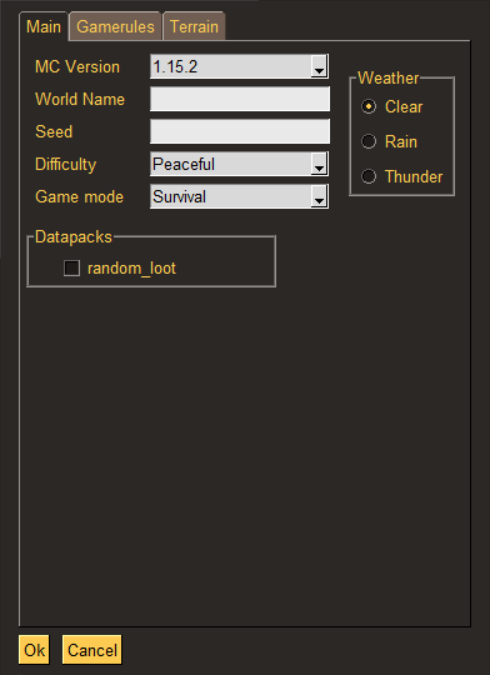
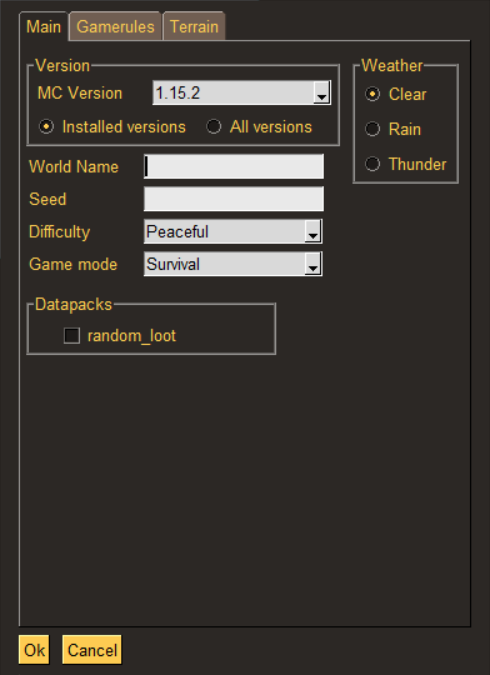
Version selection improved and made utils classes nicer

Changed region(s): [[0.0306, 0.0622, 0.949, 0.5289]]

diff --git a/FastWorldCreator.py b/FastWorldCreator.py
@@ -25,7 +25,9 @@ def enum_to_cb_contents(cls: Type[Enum]) -> List[str]:
     return [e.name.title() for e in cls]
 
 
-mc_versions = [str(k) for k in list(mu.get_version_map().keys())]
+supported_mc_versions = [k for k in mu.version_map]
+installed_mc_versions = [k for k in cu.find_installed_minecraft_versions()]
+installed_mc_versions.sort(reverse=True)
 available_datapacks = du.get_available_datapacks()
 available_datapacks.sort(key=lambda x: x.name)
 difficulties = enum_to_cb_contents(mu.Difficulties)
@@ -56,9 +58,19 @@ def create_layouts():
         main tab, and populated from the assets/imported_datapacks folder.
         """
         c1_layout = [[
-            sg.T('MC Version', size=(10, 1)),
-            sg.Combo(mc_versions, mc_versions[0], (18, 1), readonly=True,
-                     key="release")
+            sg.Frame("Version", [[
+                sg.T('MC Version', size=(10, 1)),
+                sg.Combo(installed_mc_versions, installed_mc_versions[0],
+                         (18, 1), readonly=True, key="release")
+                ],
+                [
+                    sg.Radio("Installed versions", "radio_versions", True,
+                             enable_events=True,
+                             key="radio_installed_versions"),
+                    sg.Radio("All versions", "radio_versions",
+                             enable_events=True, key="radio_all_versions")
+                ]
+            ])
         ]]
         c1_layout += [[
             sg.T('World Name', size=(10, 1)),
@@ -81,7 +93,7 @@ def create_layouts():
         ]]
         c2_layout = [[sg.Frame('Weather', create_weather_layout())]]
         layout = [[
-            sg.Col(c1_layout, pad=(5, 7)), sg.Col(c2_layout, pad=(0, 17))
+            sg.Col(c1_layout, pad=(0, 7)), sg.Col(c2_layout, pad=(0, 7))
         ]]
         layout += [[
             sg.Frame('Datapacks', create_datapack_layout(), size=(50, 1))
@@ -305,6 +317,10 @@ while True:
     event, val_dict = window.read()
     if event in (None, 'Cancel'):  # if user closes window or clicks cancel
         break
+    if event == "radio_installed_versions":
+        window["release"].update(values=installed_mc_versions)
+    elif event == "radio_all_versions":
+        window["release"].update(values=supported_mc_versions)
     if event == "generator":
         if val_dict[event] == mu.GeneratorNames.BUFFET.name.title():
             window["buffet_option_frame"].unhide_row()

diff --git a/fast_world_creator/utils/common_utils.py b/fast_world_creator/utils/common_utils.py
@@ -1,7 +1,11 @@
 import os
+from functools import lru_cache
 from typing import Dict
 
 from fast_world_creator.utils import minecraft_utils as mu
+
+
+MC_FOLDER = f"{os.getenv('APPDATA')}/.minecraft"
 
 
 def log(msg: str, sym: str = "#") -> None:
@@ -13,6 +17,7 @@ def log(msg: str, sym: str = "#") -> None:
     print(f"{sym * 3} {msg:^40} {sym * 3}")
 
 
+@lru_cache(maxsize=4)
 def find_installed_minecraft_versions(mc_dir: str = None) -> Dict:
     """ Finds the available jars of vanilla Minecraft in the system.
 
@@ -21,18 +26,21 @@ def find_installed_minecraft_versions(mc_dir: str = None) -> Dict:
     versions are obtained from the data version map, so not every Jar file in
     the path will be added to the dictionary.
 
+    The method caches the result to prevent system lookups every time it is
+    called.
+
     :param mc_dir: The Minecraft installation directory (.minecraft)
     :return: A dictionary containing the installed (and supported) minecraft
         versions and the path to the Jar files."""
     log("Looking for installed minecraft versions")
     if not mc_dir:
-        mc_dir = get_mc_folder()
+        mc_dir = MC_FOLDER
     installations_folder = f"{mc_dir}/versions"
     installations = os.listdir(installations_folder)
 
     installed_versions = dict()
     for i in installations:
-        if i in mu.get_version_map().keys():
+        if i in mu.version_map.keys():
             version_folder = f"{installations_folder}/{i}"
             if os.path.isdir(version_folder):
                 version_jar = f"{version_folder}/{i}.jar"
@@ -43,22 +51,6 @@ def find_installed_minecraft_versions(mc_dir: str = None) -> Dict:
         log("Aborting...")
         exit(0)
     return installed_versions
-
-
-def get_mc_folder() -> str:
-    """ Get the default Minecraft installation folder
-
-    The method caches the result to prevent system lookups every time it is
-    called.
-    :return: The path to the folder.
-    """
-    if not get_mc_folder.loaded_version:
-        get_mc_folder.loaded_version = f"{os.getenv('APPDATA')}/.minecraft"
-    return get_mc_folder.loaded_version
-
-
-# Manual cache for the get_mc_folder method
-get_mc_folder.loaded_version = False
 
 
 def change_directory(to_dir: str) -> str:

diff --git a/fast_world_creator/utils/minecraft_utils.py b/fast_world_creator/utils/minecraft_utils.py
@@ -1,5 +1,5 @@
 import enum
-from typing import List
+from typing import List, Dict
 
 
 class Difficulties(enum.IntEnum):
@@ -67,23 +67,18 @@ def get_mc_definitions(resource: str) -> List[str]:
         return [line.rstrip("\n") for line in f.readlines() if line]
 
 
-def get_version_map() -> dict:
-    """ Get the mapping between a release name and its data version.
-
-    For more information, visit https://minecraft.gamepedia.com/Data_version.
-    :return: A map of all the full releases between 1.13 and 1.15.2 (inclusive)
-        and their data versions.
-    """
-    return {
-        "1.15.2": "2230",
-        "1.15.1": "2227",
-        "1.15": "2225",
-        "1.14.4": "1976",
-        "1.14.3": "1968",
-        "1.14.2": "1963",
-        "1.14.1": "1957",
-        "1.14": "1952",
-        "1.13.2": "1631",
-        "1.13.1": "1628",
-        "1.13": "1519",
-    }
+# Mapping between a release name and its data version.
+# For more information, visit https://minecraft.gamepedia.com/Data_version.
+version_map: Dict[str, str] = {
+    "1.15.2": "2230",
+    "1.15.1": "2227",
+    "1.15": "2225",
+    "1.14.4": "1976",
+    "1.14.3": "1968",
+    "1.14.2": "1963",
+    "1.14.1": "1957",
+    "1.14": "1952",
+    "1.13.2": "1631",
+    "1.13.1": "1628",
+    "1.13": "1519",
+}

diff --git a/fast_world_creator/new_world/world_creator.py b/fast_world_creator/new_world/world_creator.py
@@ -22,7 +22,7 @@ class WorldCreator:
         except ValueError:
             # No parsable integer. Create hash and convert lowest values to int
             self.seed = int(hl.md5(seed.encode("utf-8")).hexdigest()[:7], 16)
-        self.w_dir = os.sep.join([cu.get_mc_folder(), "saves", self.name])
+        self.w_dir = f"{cu.MC_FOLDER}/saves/{self.name}"
 
     def create_world_directory(self) -> str:
         """ Create the world folder based on the world name.
@@ -73,7 +73,7 @@ class WorldCreator:
         mc = "minecraft:"
         level_dat_dict = {
             "Version": {
-                "Id": mu.get_version_map().get(self.mc_release),
+                "Id": mu.version_map.get(self.mc_release),
                 "Name": self.mc_release
             },
             "LevelName": self.name,
